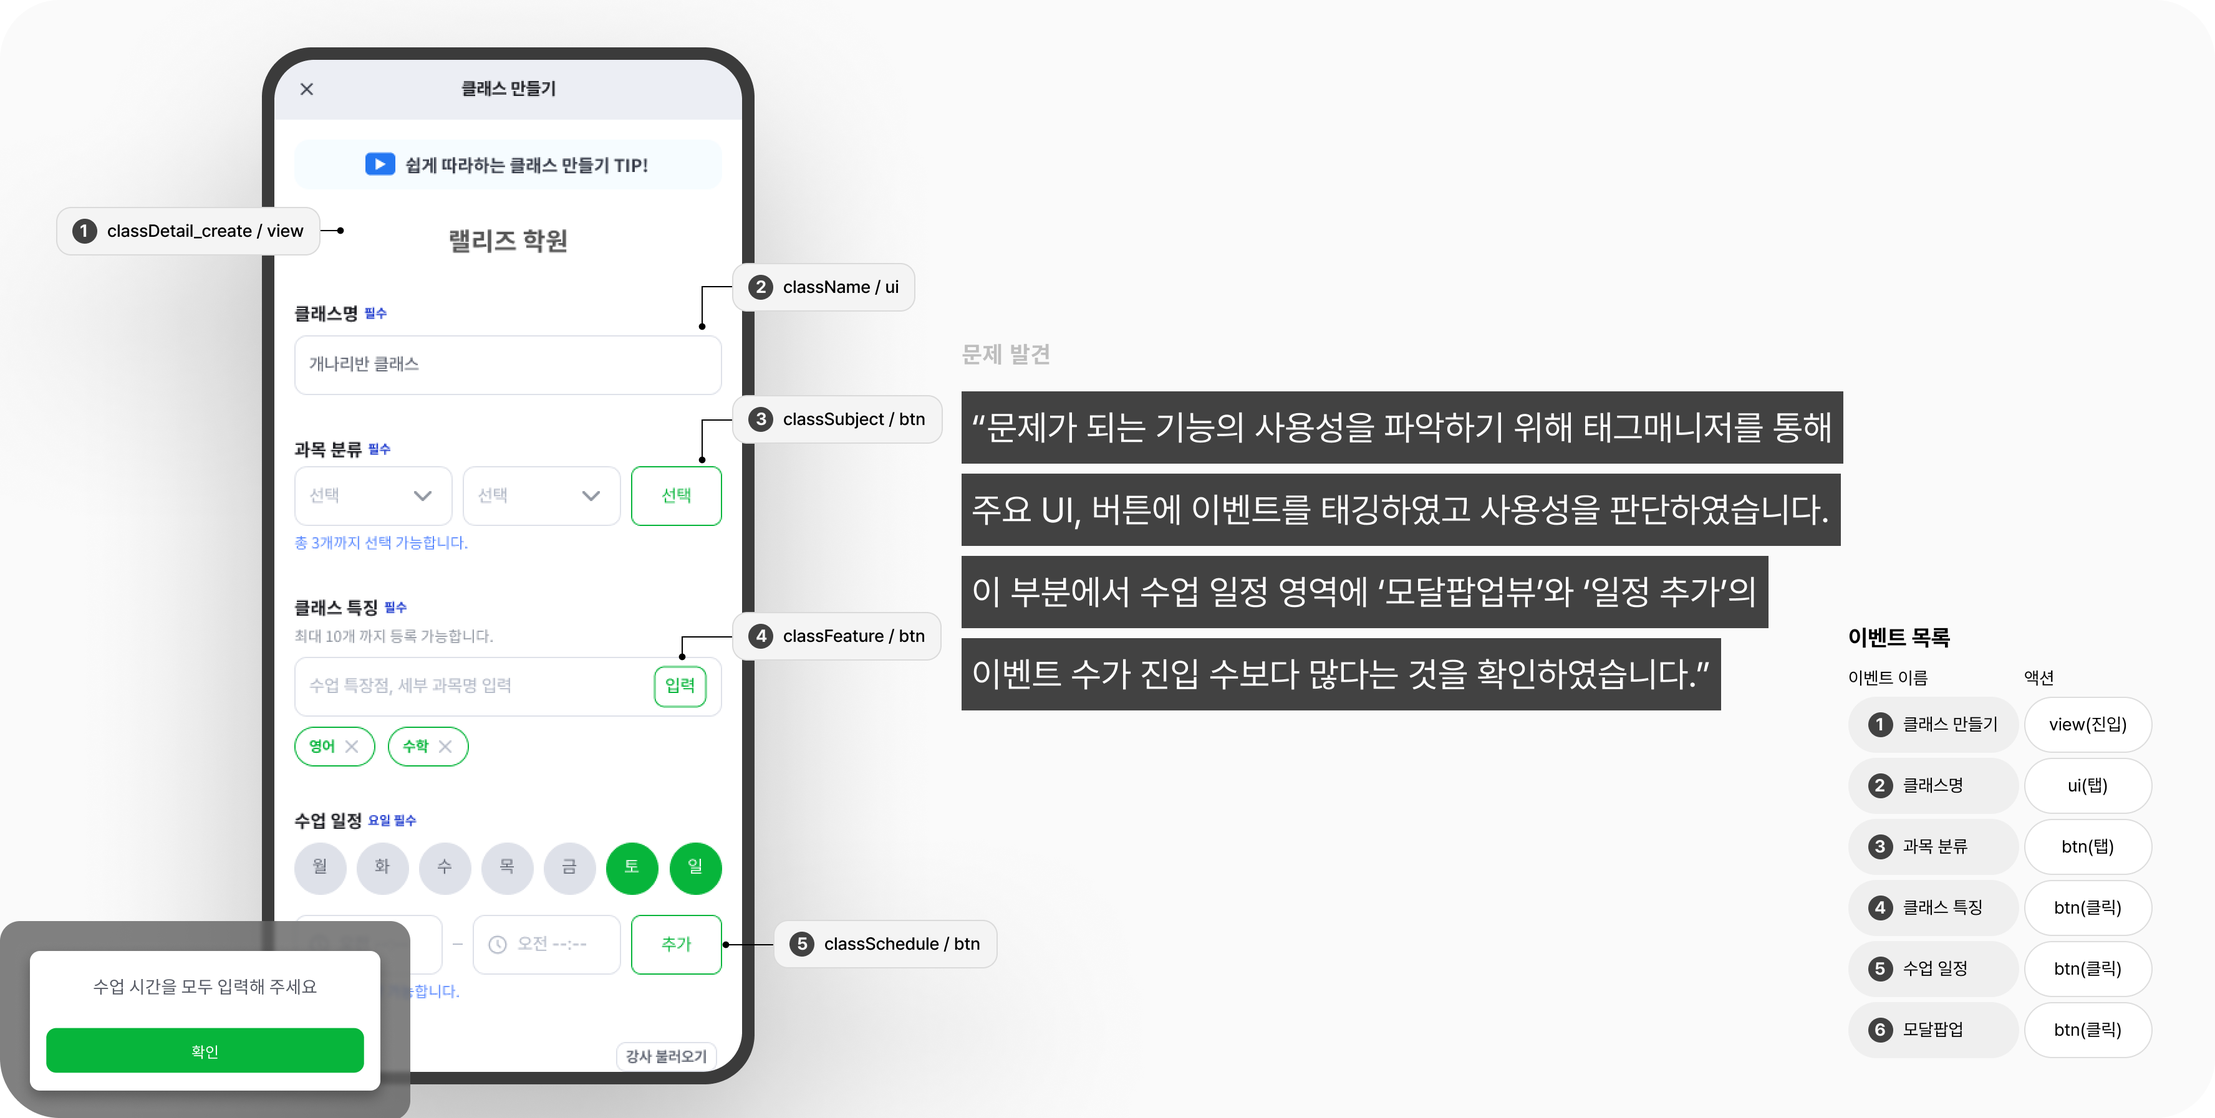
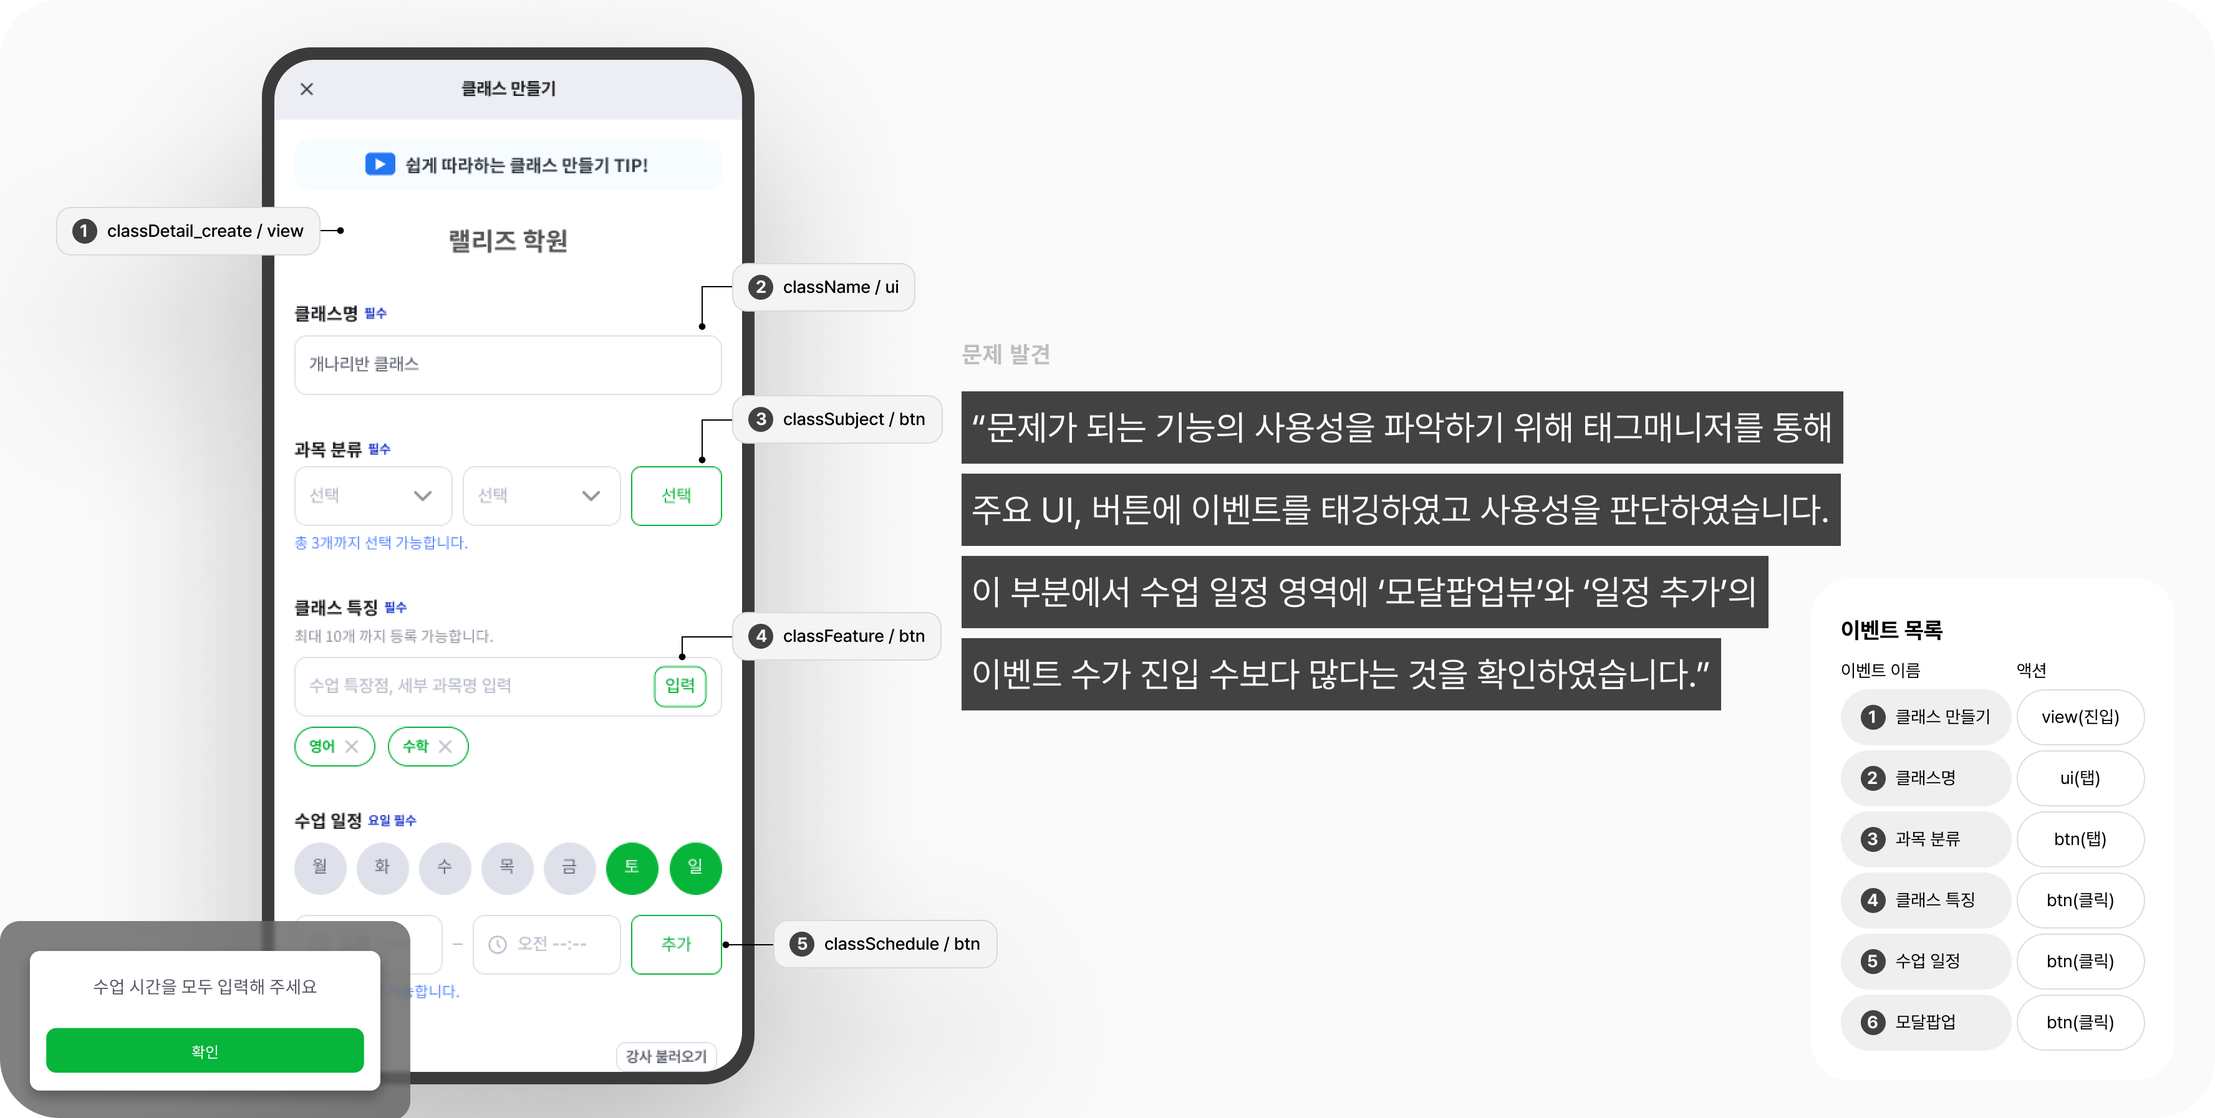
셀프라이브 제목을 자연유입 사용자 대상 셀프 온보딩 개선으로 바꾸고 에셋을 갱신한다.
- 상세·목록·메인의 프로젝트 제목과 줄바꿈을 변경하고 히어로 제목 폭을 넓힌다
- 셀프라이브 이미지를 2x로 다시 내보내고 캐시 버전을 올린다
- style.css 캐시 버전을 올린다

Changed region(s): [[0.8125, 0.5307, 0.9688, 0.9365], [0.8438, 0.9052, 0.875, 0.9365], [0.8438, 0.6867, 0.875, 0.7179]]

diff --git a/project-selflive.html b/project-selflive.html
@@ -6,13 +6,13 @@
   <meta name="robots" content="noindex, nofollow">
   <meta name="googlebot" content="noindex, nofollow">
   <link rel="icon" href="assets/image/common/favicon.svg" type="image/svg+xml" sizes="96x96">
-  <title>셀프라이브 성과 지표 강화 — SONG HYO SUB</title>
+  <title>자연유입으로 유입된 사용자를 위한 셀프 온보딩·이용 흐름 개선 — SONG HYO SUB</title>
   <link rel="preconnect" href="https://use.typekit.net" crossorigin>
   <!-- Adobe Fonts nck6cvt — 기본 CSS 링크 + JS·Typekit.load(임베드 코드 안내: helpx.adobe.com/kr/fonts/using/embed-codes.html) · 패밀리명 css/style.css :root -->
   <link rel="stylesheet" href="https://use.typekit.net/nck6cvt.css">
   <script src="https://use.typekit.net/nck6cvt.js"></script>
   <script>try{Typekit.load({async:true});}catch(e){}</script>
-  <link rel="stylesheet" href="css/style.css?v=20261122">
+  <link rel="stylesheet" href="css/style.css?v=20261124">
   <script src="js/project-lock.js?v=13"></script>
 </head>
 <body>
@@ -30,10 +30,10 @@
     <div class="case-hero" data-reveal>
       <div class="case-hero__frame">
         <img
-          src="assets/image/selflive/section00-visual01.png?v=20261118"
+          src="assets/image/selflive/section00-visual01.png?v=20261123"
           width="3552"
           height="1760"
-          alt="셀프라이브 프로젝트 메인 비주얼: 공급자 대상 자연 유입 개선을 위한 제품 화면 구성"
+          alt="셀프라이브 프로젝트 메인 비주얼: 자연유입 사용자를 위한 셀프 온보딩·이용 흐름 개선 제품 화면 구성"
           decoding="async"
           fetchpriority="high">
       </div>
@@ -44,7 +44,7 @@
         <div class="case-body__layout">
           <div class="case-body__gutter-left" aria-hidden="true"></div>
           <div class="case-body__main">
-            <h1 class="case-body__title case-body__title--case-hero">셀프라이브 성과 지표 강화<br>(자연유입 비율 확보 : 학원 대상)</h1>
+            <h1 class="case-body__title case-body__title--case-hero case-body__title--case-hero-selflive">자연유입으로 유입된 사용자를 위한<br>셀프 온보딩·이용 흐름 개선</h1>
             <p class="case-body__lead case-body__lead--case-hero">
               일반적으로 랠리즈를 사용하는 대부분의 학원들은<br>
               영업 매니저들의 인적 리소스가 투입되어 사용을 시작하였습니다.<br>
@@ -95,7 +95,7 @@
             </p>
             <figure class="case-en-main-stack__figure">
               <img
-                src="assets/image/selflive/section01-visual01.png?v=20261118"
+                src="assets/image/selflive/section01-visual01.png?v=20261123"
                 width="2176"
                 height="944"
                 alt="일반 라이브 학원과 셀프 라이브 학원 유입 유형 비교"
@@ -114,7 +114,7 @@
             </p>
             <figure class="case-en-main-stack__figure">
               <img
-                src="assets/image/selflive/section01-visual02.png?v=20261118"
+                src="assets/image/selflive/section01-visual02.png?v=20261123"
                 width="2176"
                 height="944"
                 alt="학원·클래스·학생 개체 설명 및 서비스 진입 시 필수 생성 요구"
@@ -131,7 +131,7 @@
       <div class="case-selflive-p02__inner">
         <figure class="case-study-fullbleed-figure">
           <img
-            src="assets/image/selflive/section02-visual01.png?v=20261118"
+            src="assets/image/selflive/section02-visual01.png?v=20261123"
             width="3840"
             height="1872"
             alt="온보딩 퍼널 이탈·전환율 이슈와 전체 대비 셀프 라이브 학원 현황, 프로젝트 목표를 담은 슬라이드"
@@ -161,7 +161,7 @@
             </p>
             <figure class="case-en-main-stack__figure case-selflive-p03__figure">
               <img
-                src="assets/image/selflive/section03-visual01.png?v=20261118"
+                src="assets/image/selflive/section03-visual01.png?v=20261123"
                 width="2176"
                 height="1608"
                 alt="문제 도출 ERROR 01~03: 필수 생성 설명 부재, 주요 화면 사용성, 사용유도 동선 이슈별 모바일 화면"
@@ -197,7 +197,7 @@
       <div class="case-selflive-p04__visual case-study-visual-band">
         <figure class="case-study-fullbleed-figure">
           <img
-            src="assets/image/selflive/section04-visual01.png?v=20261118"
+            src="assets/image/selflive/section04-visual01.png?v=20261123"
             width="3840"
             height="1680"
             alt="Tier judgment: Self live 인입, Step 01~03, Tier 1~5 단계별 화면과 Self live judgment, 신규 유입에서 지속 사용까지 퍼널 안내"
@@ -231,7 +231,7 @@
       <div class="case-selflive-p05__visual case-study-visual-band">
         <figure class="case-study-fullbleed-figure">
           <img
-            src="assets/image/selflive/section05-visual01.png?v=20261118"
+            src="assets/image/selflive/section05-visual01.png?v=20261123"
             width="3840"
             height="1690"
             alt="라이브 학원 Group A~D 판정 기준, 티어 퍼널과 Tier 5 이후 Group C·D 지속 사용 확보 목표 안내"
@@ -261,7 +261,7 @@
             </p>
             <figure class="case-en-main-stack__figure">
               <img
-                src="assets/image/selflive/section06-visual01.png?v=20261118"
+                src="assets/image/selflive/section06-visual01.png?v=20261123"
                 width="2176"
                 height="1268"
                 alt="신규 사용자 온보딩 프로세스 공급자 기준 퍼널 차트, 단계별 이탈·57%·50.9% 감소 Funnel check"
@@ -273,7 +273,7 @@
       </div>
       <figure class="case-en-figure-band case-inner case-selflive-p08__figure2">
         <img
-          src="assets/image/selflive/section06-visual02.png?v=20261118"
+          src="assets/image/selflive/section06-visual02.png?v=20261123"
           width="3552"
           height="1794"
           alt="클래스 생성 화면 이벤트 태깅 분석: 문제 발견, 주요 UI·버튼 이벤트 목록과 모바일 화면"
@@ -306,7 +306,7 @@
       <div class="case-selflive-p09__visual case-study-visual-band">
         <figure class="case-study-fullbleed-figure">
           <img
-            src="assets/image/selflive/section07-visual01.png?v=20261118"
+            src="assets/image/selflive/section07-visual01.png?v=20261123"
             width="3840"
             height="1466"
             alt="클래스 생성 As-is·To-be 비교: 힌트·버튼 활성 조건·반응형 UI·입력 검증 등 콜아웃과 모바일 목업"
@@ -321,7 +321,7 @@
       <div class="case-selflive-p10__visual case-study-visual-band">
         <figure class="case-study-fullbleed-figure">
           <img
-            src="assets/image/selflive/section07-visual02.png?v=20261118"
+            src="assets/image/selflive/section07-visual02.png?v=20261123"
             width="3840"
             height="2160"
             alt="To-be 클래스 생성 세 화면 목업, 최소 액션·환경 대응 디테일, 일 평균 클래스 생성 168개에서 245개 Task Result"
@@ -354,7 +354,7 @@
       <div class="case-selflive-p11__visual case-study-visual-band">
         <figure class="case-study-fullbleed-figure">
           <img
-            src="assets/image/selflive/section08-visual01.png?v=20261122"
+            src="assets/image/selflive/section08-visual01.png?v=20261123"
             width="3840"
             height="1440"
             alt="온보딩·초기 세팅·본 서비스·필수 항목 유도 단계별 타임라인과 서비스 플로우 흐름 모바일 목업 여섯 대"
@@ -364,7 +364,7 @@
       </div>
       <figure class="case-en-figure-band case-inner case-selflive-p11__figure2">
         <img
-          src="assets/image/selflive/section08-visual02.png?v=20261118"
+          src="assets/image/selflive/section08-visual02.png?v=20261123"
           width="3552"
           height="1700"
           alt="서비스 기준 기능 구성 화면과 사용자 기준 사용동선 비교 모바일 목업"
@@ -392,7 +392,7 @@
             </p>
             <figure class="case-en-main-stack__figure">
               <img
-                src="assets/image/selflive/section09-visual01.png?v=20261118"
+                src="assets/image/selflive/section09-visual01.png?v=20261123"
                 width="2176"
                 height="192"
                 alt="User Scenario: 신규 학원장이 최초로 청구서 서비스 이용 시 클래스 생성, 학생 등록, 청구서 서비스 이용 단계"
@@ -401,7 +401,7 @@
             </figure>
             <figure class="case-en-main-stack__figure">
               <img
-                src="assets/image/selflive/section09-visual02.png?v=20261118"
+                src="assets/image/selflive/section09-visual02.png?v=20261123"
                 width="2176"
                 height="1350"
                 alt="AS-IS 청구서 이용 플로우: 서비스 기준으로 되어 있어 예상하기 어려운 사용동선"
@@ -410,7 +410,7 @@
             </figure>
             <figure class="case-en-main-stack__figure">
               <img
-                src="assets/image/selflive/section09-visual03.png?v=20261118"
+                src="assets/image/selflive/section09-visual03.png?v=20261123"
                 width="2176"
                 height="1126"
                 alt="TO-BE 청구서 이용 플로우: 예측 가능한 사용동선으로 개선(사용자 기준)"
@@ -427,7 +427,7 @@
       <div class="case-selflive-p13__visual case-study-visual-band">
         <figure class="case-study-fullbleed-figure">
           <img
-            src="assets/image/selflive/section09-visual04.png?v=20261118"
+            src="assets/image/selflive/section09-visual04.png?v=20261123"
             width="3840"
             height="2160"
             alt="Detail: 툴팁·Benefit 안내, Task Result 자연 유입 4.87%에서 10.05%, TO-BE 다중 모바일 목업"
@@ -460,7 +460,7 @@
             </p>
             <figure class="case-en-main-stack__figure">
               <img
-                src="assets/image/selflive/section10-visual01.png?v=20261118"
+                src="assets/image/selflive/section10-visual01.png?v=20261123"
                 width="2176"
                 height="972"
                 alt="Project goal 셀프라이브 자연유입 성과지표: 전체 학원·라이브·셀프 라이브 학원 수·비율 비교(2023년 8월 대비 2024년 1월)"
@@ -469,7 +469,7 @@
             </figure>
             <figure class="case-en-main-stack__figure">
               <img
-                src="assets/image/selflive/section10-visual02.png?v=20261118"
+                src="assets/image/selflive/section10-visual02.png?v=20261123"
                 width="2176"
                 height="972"
                 alt="배포 후 성과 지표 보조 시각화: 전환·사용성 관련 추적 그래프"
@@ -482,7 +482,7 @@
       <div class="case-selflive-p14__visual">
         <figure class="case-selflive-p14__figure">
           <img
-            src="assets/image/selflive/section10-visual03.png?v=20261118"
+            src="assets/image/selflive/section10-visual03.png?v=20261123"
             width="3552"
             height="472"
             alt="주요 기능 사용성 보조 지표: 피드·청구서·출결·클래스·학생 등록 일 평균 대비 증가율"

diff --git a/project.html b/project.html
@@ -12,7 +12,7 @@
   <link rel="stylesheet" href="https://use.typekit.net/nck6cvt.css">
   <script src="https://use.typekit.net/nck6cvt.js"></script>
   <script>try{Typekit.load({async:true});}catch(e){}</script>
-  <link rel="stylesheet" href="css/style.css?v=20261122">
+  <link rel="stylesheet" href="css/style.css?v=20261124">
 </head>
 <body>
   <header class="site-header">
@@ -132,12 +132,12 @@
       </article>
 
       <article class="project-card project-card--linked" id="project-selflive" data-reveal>
-        <a class="project-card__hit-area" href="project-selflive.html" aria-label="셀프라이브 성과 지표 강화 — 프로젝트 상세 보기"></a>
+        <a class="project-card__hit-area" href="project-selflive.html" aria-label="자연유입으로 유입된 사용자를 위한 셀프 온보딩·이용 흐름 개선 — 프로젝트 상세 보기"></a>
         <div class="project-card__thumb project-card__thumb--neutral">
           <img src="assets/image/main/thumbnail_selflive.png?v=20260412" width="1164" height="960" alt="" decoding="async" loading="lazy">
         </div>
         <div class="project-card__content">
-          <h2 class="project-card__title">셀프라이브 성과 지표 강화<br>(자연유입 비율 확보 : 공급자 대상)</h2>
+          <h2 class="project-card__title">자연유입으로 유입된 사용자를 위한<br>셀프 온보딩·이용 흐름 개선</h2>
           <p class="project-card__body">
             일반적으로 랠리즈를 사용하는 대부분의 학원들은<br>영업 매니저들의 인적 리소스가 투입되어 사용을 시작하였습니다.<br>이 단계에서 투입되는 리소스를 최소화 하기 위해 제품의 전반적인 사용성을 끌어올려<br>사용자 스스로 서비스를 쉽게 이용할 수 있는 구조적 기반을 마련하는 궁극적인 목적 아래 프로젝트를 진행하였습니다.
           </p>

diff --git a/index.html b/index.html
@@ -12,7 +12,7 @@
   <link rel="stylesheet" href="https://use.typekit.net/nck6cvt.css">
   <script src="https://use.typekit.net/nck6cvt.js"></script>
   <script>try{Typekit.load({async:true});}catch(e){}</script>
-  <link rel="stylesheet" href="css/style.css?v=20261122">
+  <link rel="stylesheet" href="css/style.css?v=20261124">
 </head>
 <body>
   <header class="site-header">
@@ -139,12 +139,12 @@
                 src="assets/image/main/thumbnail_selflive.png?v=20260412"
                 width="1164"
                 height="960"
-                alt="셀프라이브 성과 지표 강화 썸네일"
+                alt="자연유입으로 유입된 사용자를 위한 셀프 온보딩·이용 흐름 개선 썸네일"
                 decoding="async"
                 loading="lazy">
             </div>
             <div class="project-card__body">
-              <h2 class="project-card__title">셀프라이브 성과 지표 강화</h2>
+              <h2 class="project-card__title">자연유입으로 유입된 사용자를 위한 셀프 온보딩·이용 흐름 개선</h2>
               <div class="project-card__tags">
                 <span class="tag">B2B</span>
                 <span class="tag">Education</span>

diff --git a/css/style.css b/css/style.css
@@ -1485,6 +1485,11 @@ main.project-page + .site-chrome-footer .closing {
   max-width: 876px;
 }
 
+/* 셀프라이브 섹션00 H1: 첫 줄(자연유입으로 유입된 사용자를 위한)이 한 줄로 들어가도록 폭 확장 */
+.case-body__title--case-hero-selflive {
+  max-width: 900px;
+}
+
 /* 케이스 히어로 메타: 2×2 — 수행기간·담당역할 / 참여도·참여인원 */
 .case-meta--case-hero {
   grid-template-columns: minmax(0, auto) minmax(0, 1fr);

diff --git a/project-awallet.html b/project-awallet.html
@@ -12,7 +12,7 @@
   <link rel="stylesheet" href="https://use.typekit.net/nck6cvt.css">
   <script src="https://use.typekit.net/nck6cvt.js"></script>
   <script>try{Typekit.load({async:true});}catch(e){}</script>
-  <link rel="stylesheet" href="css/style.css?v=20261122">
+  <link rel="stylesheet" href="css/style.css?v=20261124">
   <script src="js/project-lock.js?v=13"></script>
 </head>
 <body>

diff --git a/project-fluid.html b/project-fluid.html
@@ -12,7 +12,7 @@
   <link rel="stylesheet" href="https://use.typekit.net/nck6cvt.css">
   <script src="https://use.typekit.net/nck6cvt.js"></script>
   <script>try{Typekit.load({async:true});}catch(e){}</script>
-  <link rel="stylesheet" href="css/style.css?v=20261122">
+  <link rel="stylesheet" href="css/style.css?v=20261124">
   <script src="js/project-lock.js?v=13"></script>
 </head>
 <body>

diff --git a/project-liveclass.html b/project-liveclass.html
@@ -12,7 +12,7 @@
   <link rel="stylesheet" href="https://use.typekit.net/nck6cvt.css">
   <script src="https://use.typekit.net/nck6cvt.js"></script>
   <script>try{Typekit.load({async:true});}catch(e){}</script>
-  <link rel="stylesheet" href="css/style.css?v=20261122">
+  <link rel="stylesheet" href="css/style.css?v=20261124">
   <script src="js/project-lock.js?v=13"></script>
 </head>
 <body>

diff --git a/project-payment.html b/project-payment.html
@@ -12,7 +12,7 @@
   <link rel="stylesheet" href="https://use.typekit.net/nck6cvt.css">
   <script src="https://use.typekit.net/nck6cvt.js"></script>
   <script>try{Typekit.load({async:true});}catch(e){}</script>
-  <link rel="stylesheet" href="css/style.css?v=20261122">
+  <link rel="stylesheet" href="css/style.css?v=20261124">
   <script src="js/project-lock.js?v=13"></script>
 </head>
 <body>

diff --git a/project-rallyzDesignsystem.html b/project-rallyzDesignsystem.html
@@ -12,7 +12,7 @@
   <link rel="stylesheet" href="https://use.typekit.net/nck6cvt.css">
   <script src="https://use.typekit.net/nck6cvt.js"></script>
   <script>try{Typekit.load({async:true});}catch(e){}</script>
-  <link rel="stylesheet" href="css/style.css?v=20261122">
+  <link rel="stylesheet" href="css/style.css?v=20261124">
   <script src="js/project-lock.js?v=13"></script>
 </head>
 <body>

diff --git a/project-salesManagement.html b/project-salesManagement.html
@@ -12,7 +12,7 @@
   <link rel="stylesheet" href="https://use.typekit.net/nck6cvt.css">
   <script src="https://use.typekit.net/nck6cvt.js"></script>
   <script>try{Typekit.load({async:true});}catch(e){}</script>
-  <link rel="stylesheet" href="css/style.css?v=20261122">
+  <link rel="stylesheet" href="css/style.css?v=20261124">
   <script src="js/project-lock.js?v=13"></script>
 </head>
 <body>

diff --git a/project-simplecreate.html b/project-simplecreate.html
@@ -12,7 +12,7 @@
   <link rel="stylesheet" href="https://use.typekit.net/nck6cvt.css">
   <script src="https://use.typekit.net/nck6cvt.js"></script>
   <script>try{Typekit.load({async:true});}catch(e){}</script>
-  <link rel="stylesheet" href="css/style.css?v=20261122">
+  <link rel="stylesheet" href="css/style.css?v=20261124">
   <script src="js/project-lock.js?v=13"></script>
 </head>
 <body>
